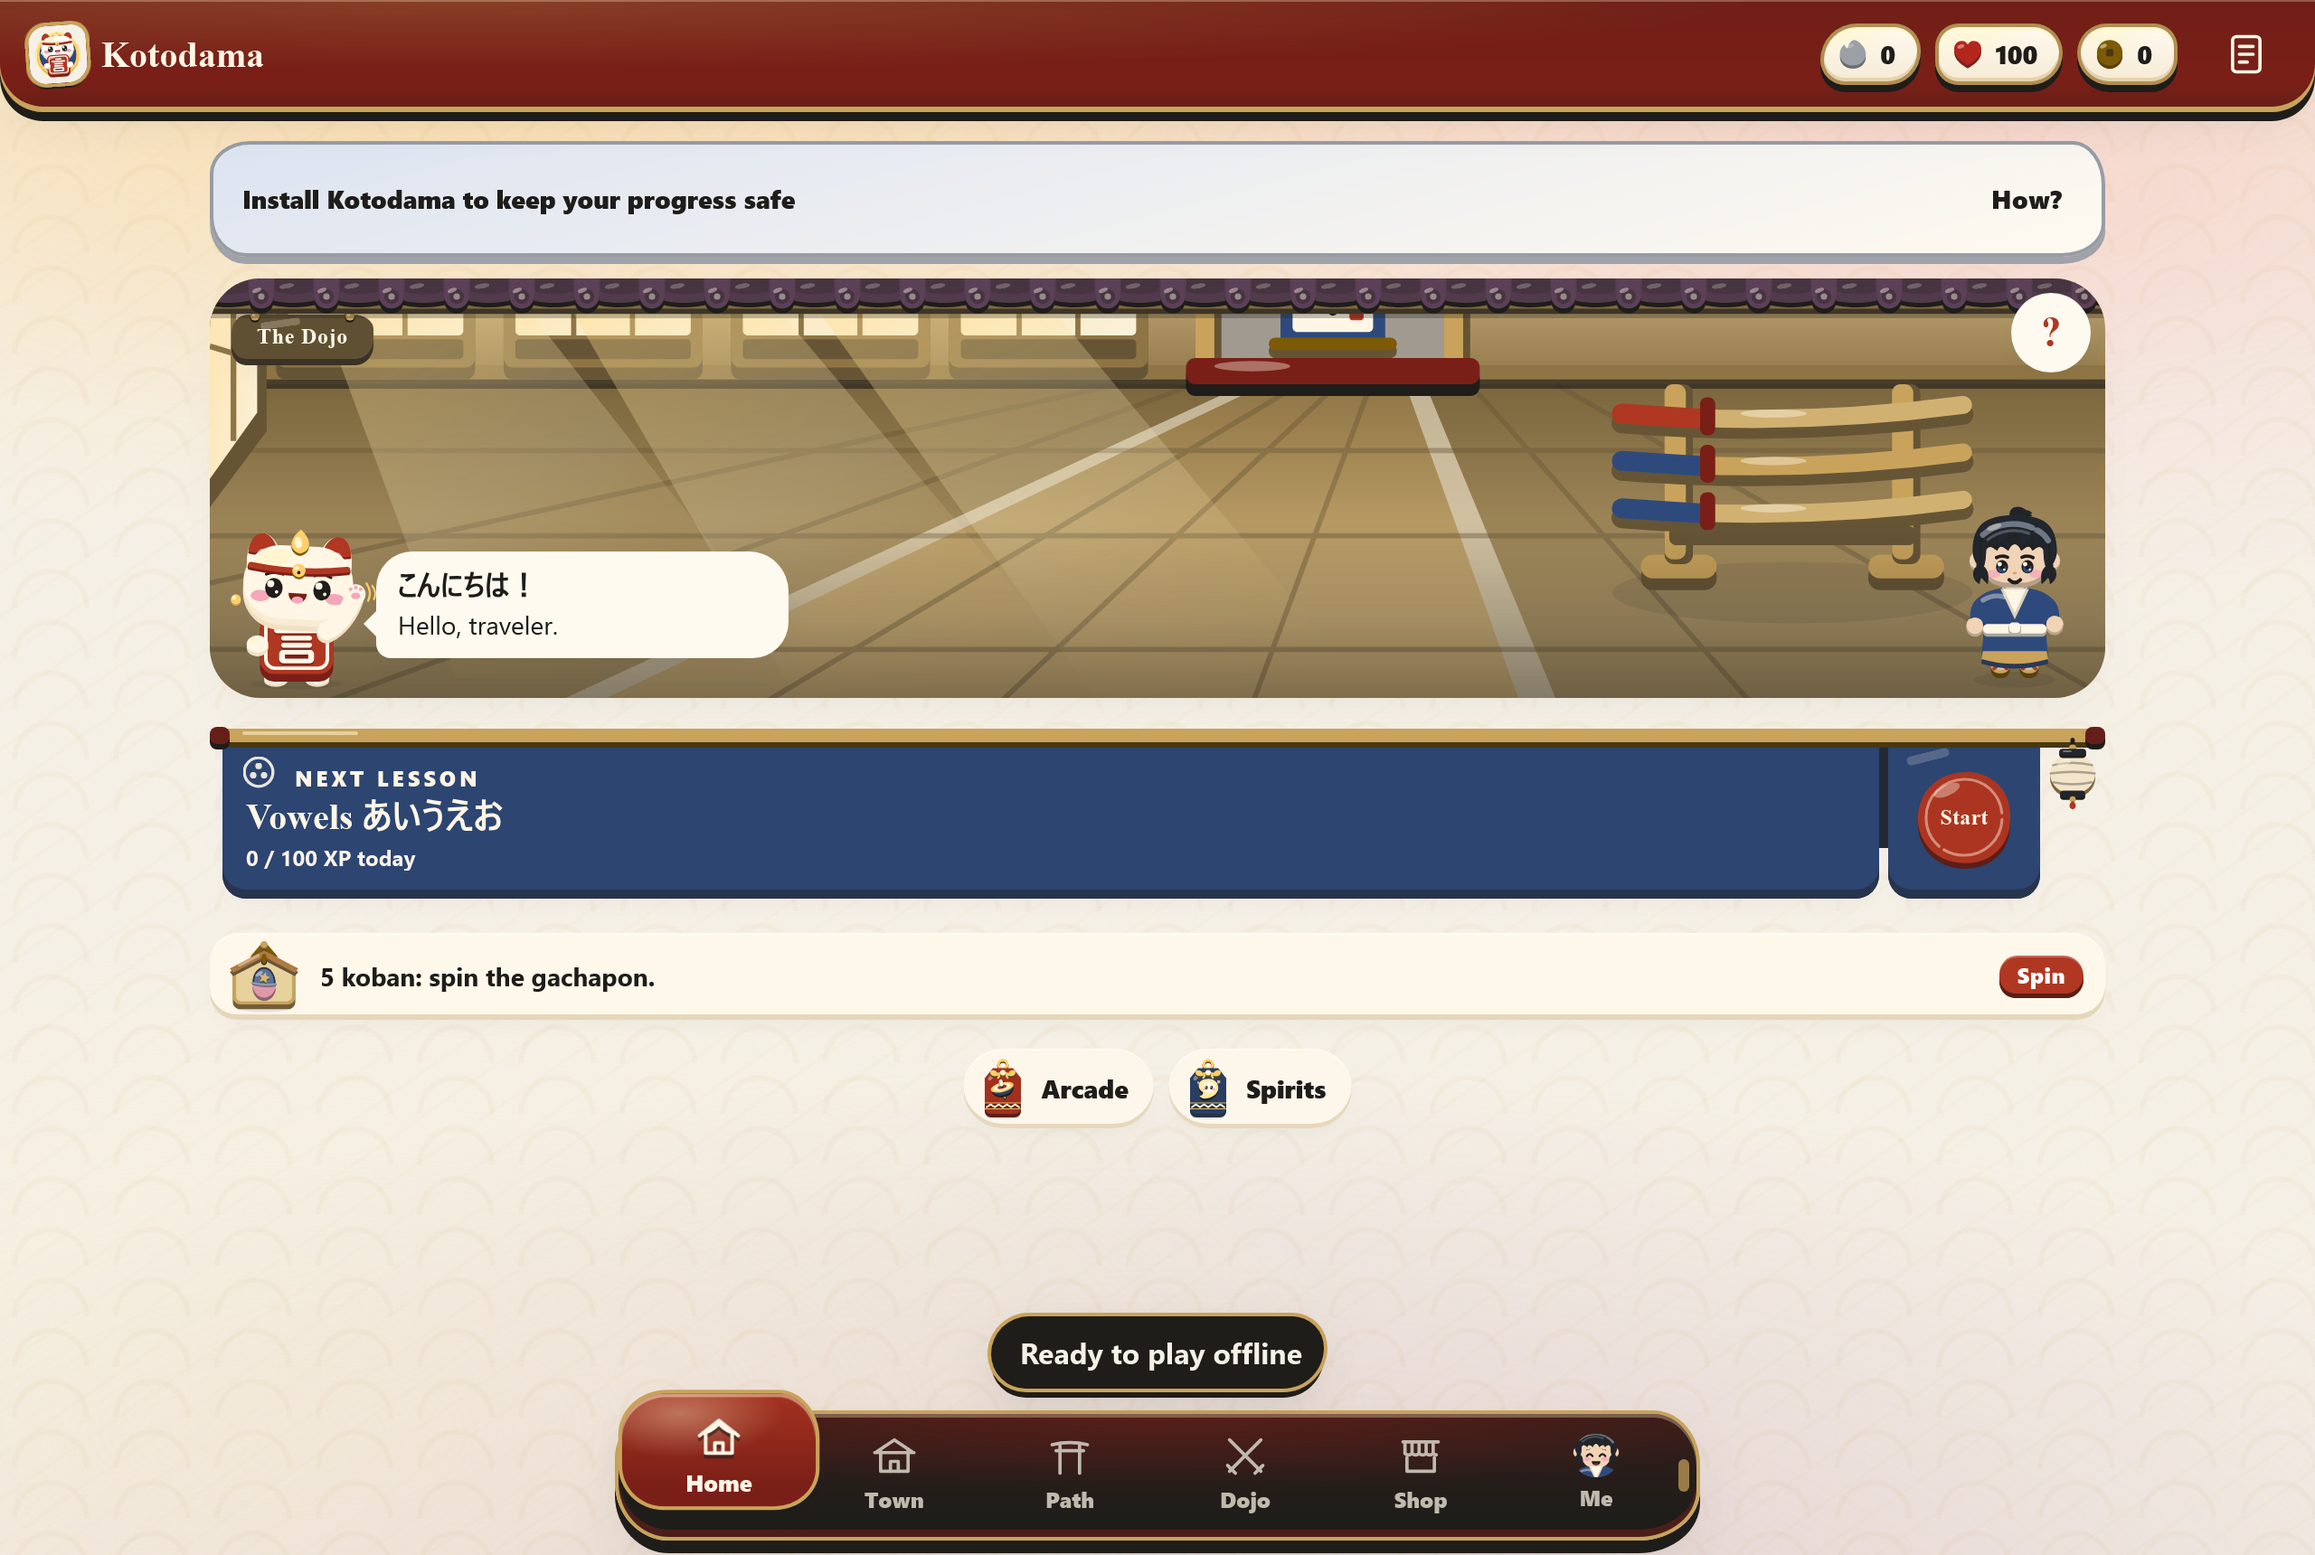
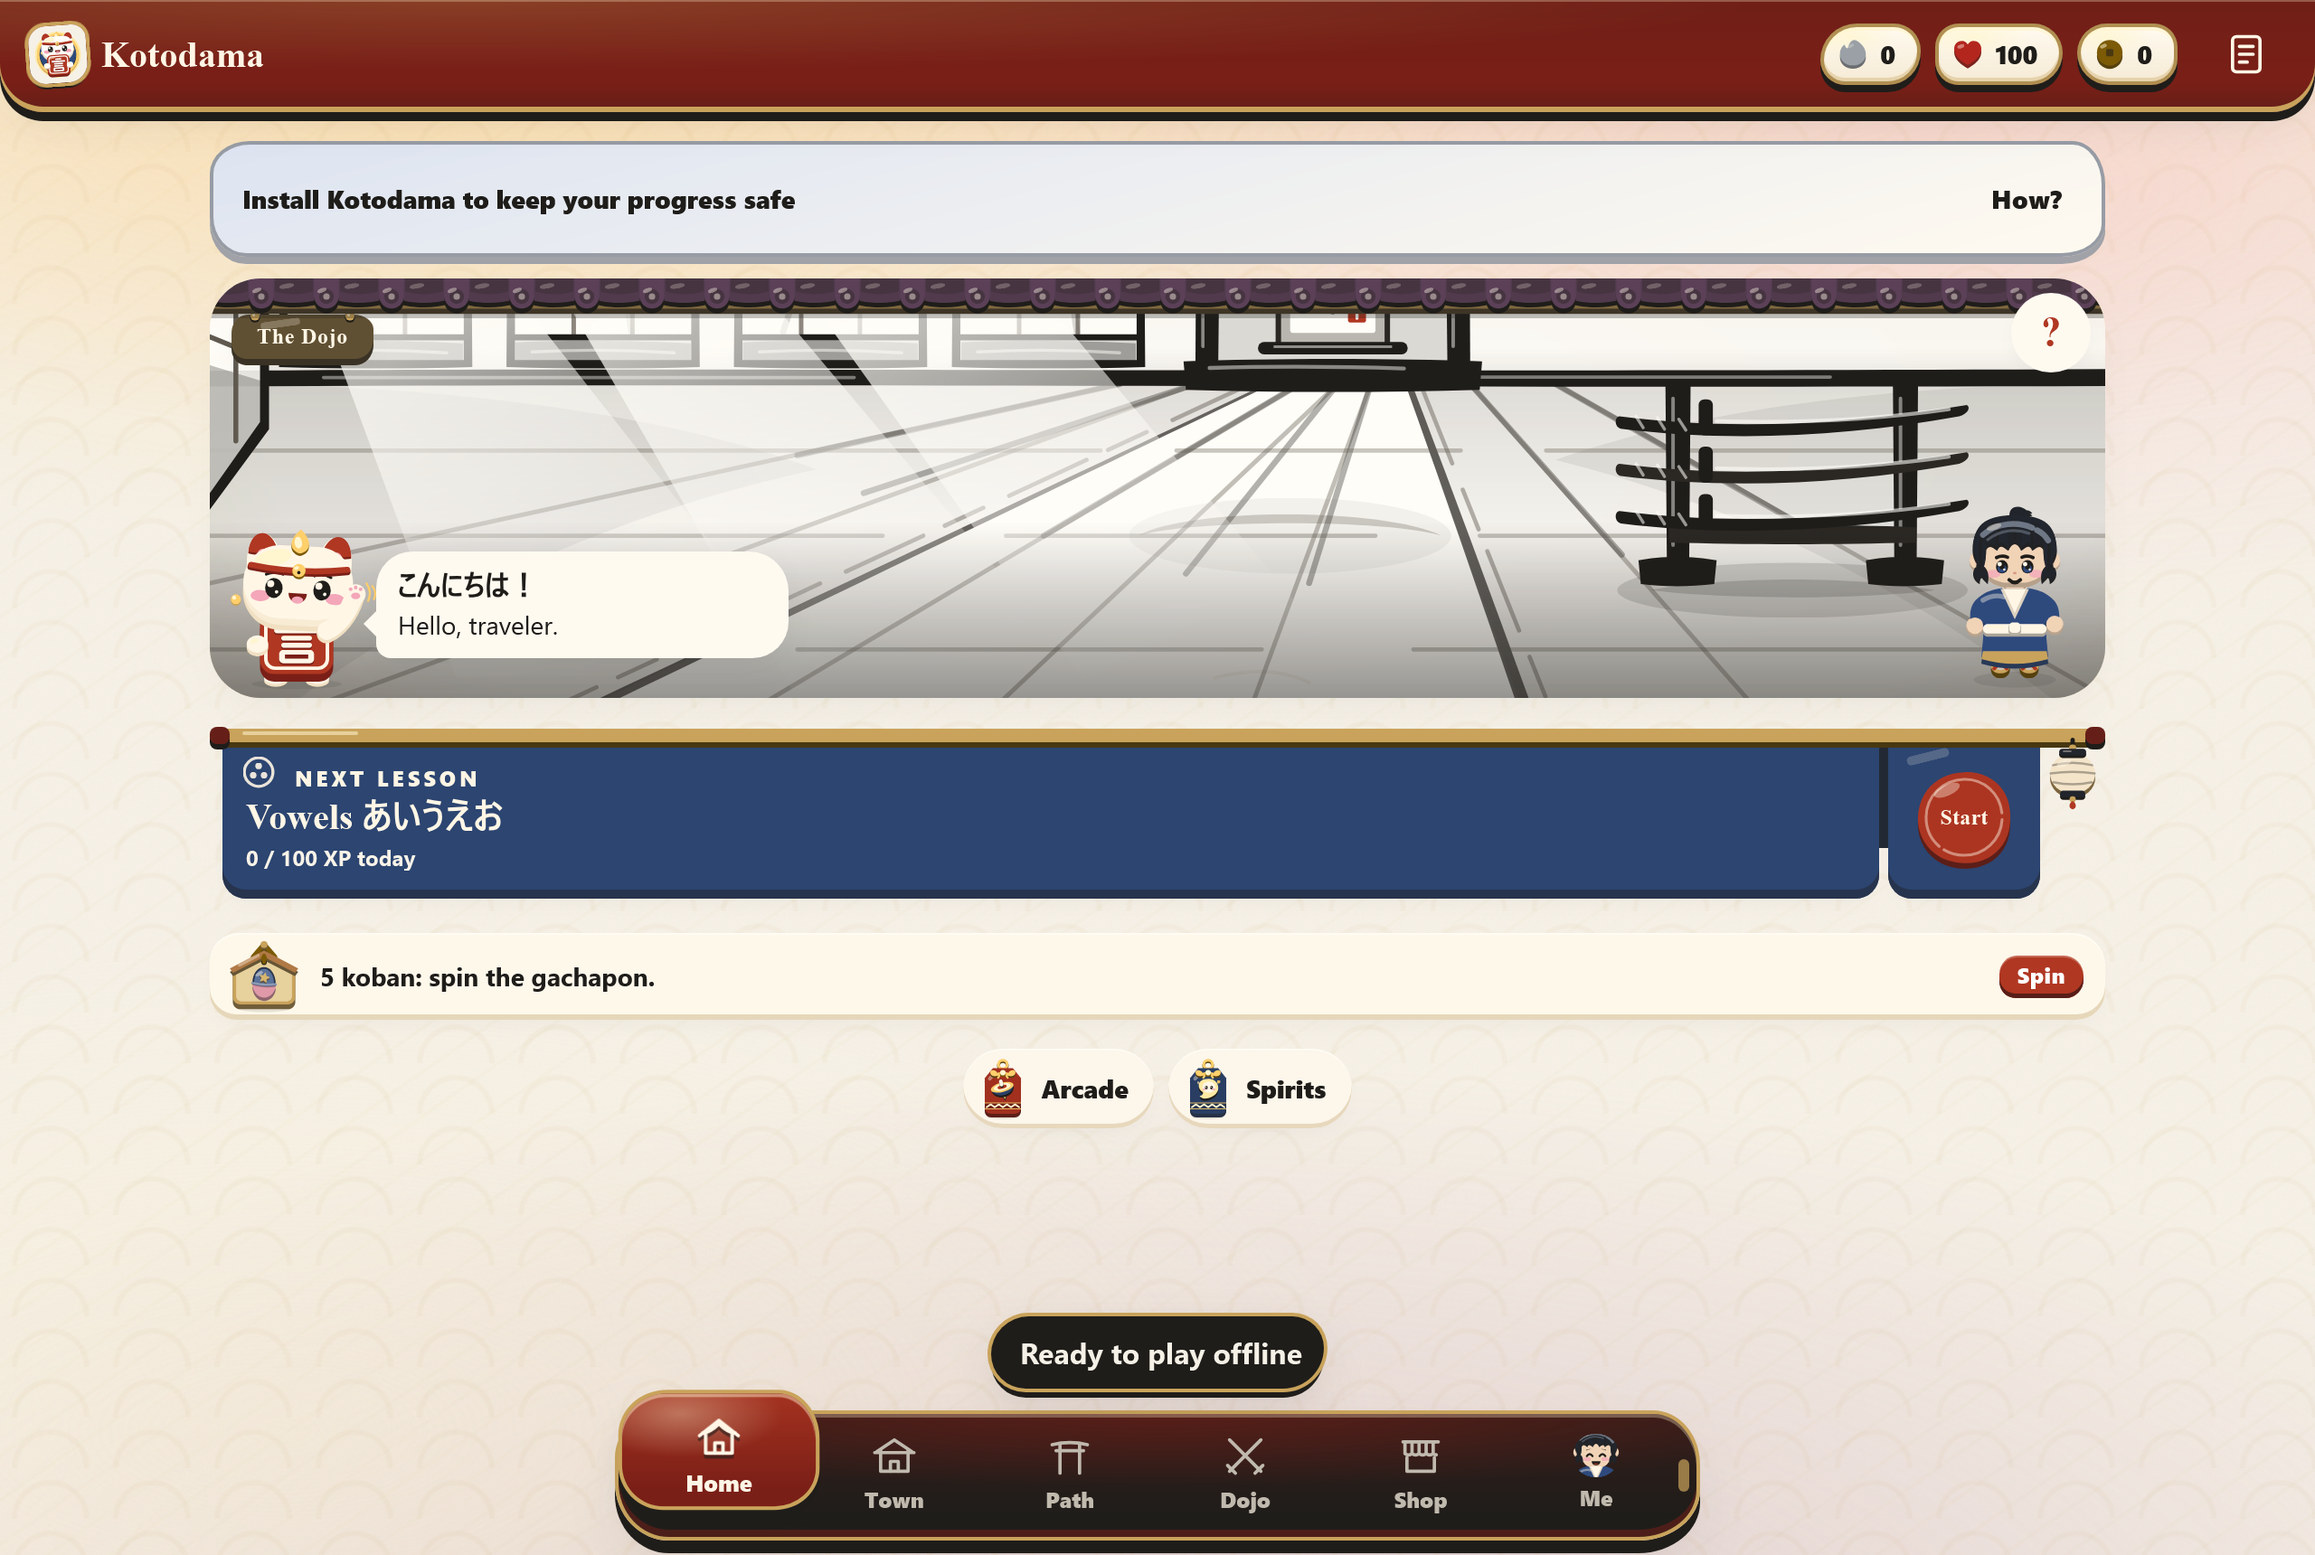
style: format the new backdrops

Changed region(s): [[0.0938, 0.1849, 0.9062, 0.4622]]

diff --git a/src/features/lesson/backdrops/DojoHall.tsx b/src/features/lesson/backdrops/DojoHall.tsx
@@ -117,11 +117,7 @@ export function DojoHallBackdrop({ className }: { className?: string }) {
       />
 
       {/* Central training lane: left in luminous open washi paper so characters pop */}
-      <path
-        d="M222.8 56 L12.8 156 L288.3 156 L252.3 56 Z"
-        fill={PAPER_BASE}
-        opacity="0.52"
-      />
+      <path d="M222.8 56 L12.8 156 L288.3 156 L252.3 56 Z" fill={PAPER_BASE} opacity="0.52" />
       {/* Faint sumi wash ring on the upper-mid lane where the opponent stands (228, 88) */}
       <ellipse cx="228" cy="88" rx="34" ry="8" fill={SUMI_DEEP} opacity="0.055" />
       <path
@@ -263,27 +259,17 @@ export function DojoHallBackdrop({ className }: { className?: string }) {
           strokeWidth="1.05"
           strokeLinecap="round"
         />
-        <path
-          d="M0 13.5 L12.5 24 V65.5 L0 82.5 L0 79 L10.6 64 V25 L0 16.5 Z"
-          fill={SUMI_DEEP}
-        />
+        <path d="M0 13.5 L12.5 24 V65.5 L0 82.5 L0 79 L10.6 64 V25 L0 16.5 Z" fill={SUMI_DEEP} />
       </g>
 
       {/* Kamiza alcove with hanging scroll at the back wall (head of the training lane) */}
       <g transform="translate(206 14)">
         {/* Recessed alcove wash (tanboku nijimi) */}
         <rect x="4.5" y="3.5" width="53" height="36" rx="1.5" fill={SUMI_WASH} />
-        <path
-          d="M5 4 H57 V16 C42 12 20 12 5 17 Z"
-          fill={SUMI_DEEP}
-          opacity="0.12"
-        />
+        <path d="M5 4 H57 V16 C42 12 20 12 5 17 Z" fill={SUMI_DEEP} opacity="0.12" />
 
         {/* Strong vertical sumi pillar brush strokes on either side of the kamiza */}
-        <path
-          d="M2.2 2.5 C4.2 2 5.8 2 7.2 2.8 L6.8 39.5 C5 40 3.4 40 2 39.2 Z"
-          fill={SUMI_DEEP}
-        />
+        <path d="M2.2 2.5 C4.2 2 5.8 2 7.2 2.8 L6.8 39.5 C5 40 3.4 40 2 39.2 Z" fill={SUMI_DEEP} />
         <path
           d="M3.6 5.5 V34"
           stroke={PAPER_BASE}
@@ -304,10 +290,7 @@ export function DojoHallBackdrop({ className }: { className?: string }) {
         />
 
         {/* Curved overhanging kamiza lintel beam brushed in one sweeping stroke */}
-        <path
-          d="M-2.5 2.4 Q31 -2.4 64.5 2.4 L62.5 6.8 Q31 2.8 -0.5 6.8 Z"
-          fill={SUMI_DEEP}
-        />
+        <path d="M-2.5 2.4 Q31 -2.4 64.5 2.4 L62.5 6.8 Q31 2.8 -0.5 6.8 Z" fill={SUMI_DEEP} />
         <path
           d="M6 3.6 Q31 0.8 56 3.6"
           stroke={PAPER_BASE}
@@ -323,15 +306,7 @@ export function DojoHallBackdrop({ className }: { className?: string }) {
         {/* Hanging scroll (kakejiku) in sumi mounting & warm washi reserve */}
         <path d="M31 5.8 L25 8.2 M31 5.8 L37 8.2" stroke={SUMI_MID} strokeWidth="0.85" />
         {/* Silk brocade mounting in medium grey sumi wash */}
-        <rect
-          x="19.5"
-          y="8"
-          width="23"
-          height="26.5"
-          rx="1"
-          fill={SUMI_MID}
-          opacity="0.28"
-        />
+        <rect x="19.5" y="8" width="23" height="26.5" rx="1" fill={SUMI_MID} opacity="0.28" />
         <rect
           x="19.5"
           y="8"
@@ -420,14 +395,8 @@ export function DojoHallBackdrop({ className }: { className?: string }) {
             d="M53.5 41.2 C58 40.2 65 40.2 70 41.2 L69.5 46.2 C64.5 46.8 58.5 46.8 54 46.2 Z"
             fill={SUMI_DEEP}
           />
-          <path
-            d="M11.2 4 C13 3.4 14.8 3.4 16.5 4 L16.2 42.5 H11.5 Z"
-            fill={SUMI_DEEP}
-          />
-          <path
-            d="M59.2 4 C61 3.4 62.8 3.4 64.5 4 L64.2 42.5 H59.5 Z"
-            fill={SUMI_DEEP}
-          />
+          <path d="M11.2 4 C13 3.4 14.8 3.4 16.5 4 L16.2 42.5 H11.5 Z" fill={SUMI_DEEP} />
+          <path d="M59.2 4 C61 3.4 62.8 3.4 64.5 4 L64.2 42.5 H59.5 Z" fill={SUMI_DEEP} />
           {/* Dry-brush flying white highlight on rack uprights & lower tie bar */}
           <path
             d="M12.8 7 V38 M60.8 7 V38"
@@ -500,12 +469,7 @@ export function DojoHallBackdrop({ className }: { className?: string }) {
           {/* Soft pale wash halo around the lantern */}
           <circle cx={x} cy="22.5" r="16" fill="url(#dojo-lantern-wash)" />
           {/* Hanging cord stroke */}
-          <path
-            d={`M${x} 8.5 V14.2`}
-            stroke={SUMI_DEEP}
-            strokeWidth="1.5"
-            strokeLinecap="round"
-          />
+          <path d={`M${x} 8.5 V14.2`} stroke={SUMI_DEEP} strokeWidth="1.5" strokeLinecap="round" />
           {/* Washi paper lantern body with subtle side ink shading */}
           <ellipse cx={x} cy="22.2" rx="8.2" ry="7.4" fill={PAPER_BASE} />
           <path

diff --git a/src/features/lesson/backdrops/MarketStreet.tsx b/src/features/lesson/backdrops/MarketStreet.tsx
@@ -36,10 +36,22 @@ export function MarketStreetBackdrop({ className }: { className?: string }) {
       <defs>
         {/* Hand-wiped ichimonji bokashi dusk sky (the only gradient in the woodblock print) */}
         <linearGradient id="market-bokashi-sky" x1="0" y1="0" x2="0" y2="1">
-          <stop offset="0%" stopColor="color-mix(in srgb, var(--c-secondary) 74%, var(--c-sky-top))" />
-          <stop offset="34%" stopColor="color-mix(in srgb, var(--c-secondary) 46%, var(--c-sky-mid))" />
-          <stop offset="68%" stopColor="color-mix(in srgb, var(--c-sky-mid) 74%, var(--c-sky-bottom))" />
-          <stop offset="100%" stopColor="color-mix(in srgb, var(--c-accent) 36%, var(--c-sky-bottom))" />
+          <stop
+            offset="0%"
+            stopColor="color-mix(in srgb, var(--c-secondary) 74%, var(--c-sky-top))"
+          />
+          <stop
+            offset="34%"
+            stopColor="color-mix(in srgb, var(--c-secondary) 46%, var(--c-sky-mid))"
+          />
+          <stop
+            offset="68%"
+            stopColor="color-mix(in srgb, var(--c-sky-mid) 74%, var(--c-sky-bottom))"
+          />
+          <stop
+            offset="100%"
+            stopColor="color-mix(in srgb, var(--c-accent) 36%, var(--c-sky-bottom))"
+          />
         </linearGradient>
       </defs>
 
@@ -236,14 +248,7 @@ export function MarketStreetBackdrop({ className }: { className?: string }) {
             stroke="var(--c-panel-edge)"
             strokeWidth="1.5"
           />
-          <circle
-            cx="11"
-            cy="11"
-            r="4"
-            fill="var(--c-accent)"
-            stroke={SUMI}
-            strokeWidth="1.2"
-          />
+          <circle cx="11" cy="11" r="4" fill="var(--c-accent)" stroke={SUMI} strokeWidth="1.2" />
         </g>
 
         {/* Sake shop's sugidama (cedar ball) hanging under the machiya eaves */}
@@ -346,14 +351,7 @@ export function MarketStreetBackdrop({ className }: { className?: string }) {
               stroke={SUMI}
               strokeWidth="1.2"
             />
-            <circle
-              cx="6.5"
-              cy="4.8"
-              r="2.3"
-              stroke={WASHI}
-              strokeWidth="1.2"
-              fill="none"
-            />
+            <circle cx="6.5" cy="4.8" r="2.3" stroke={WASHI} strokeWidth="1.2" fill="none" />
           </g>
         ))}
         {/* Shingled yatai roof with +3 shade lip, carved shingle lines & top-left highlight */}
@@ -596,22 +594,8 @@ export function MarketStreetBackdrop({ className }: { className?: string }) {
             strokeWidth="1"
             fill="none"
           />
-          <rect
-            x="-3.6"
-            y="0.4"
-            width="7.2"
-            height="2.2"
-            rx="0.8"
-            fill={SUMI}
-          />
-          <rect
-            x="-3.6"
-            y="14"
-            width="7.2"
-            height="2.2"
-            rx="0.8"
-            fill={SUMI}
-          />
+          <rect x="-3.6" y="0.4" width="7.2" height="2.2" rx="0.8" fill={SUMI} />
+          <rect x="-3.6" y="14" width="7.2" height="2.2" rx="0.8" fill={SUMI} />
           <ellipse
             cx="-2.2"
             cy="5.4"
@@ -637,15 +621,7 @@ export function MarketStreetBackdrop({ className }: { className?: string }) {
           strokeWidth="1.4"
         />
         <rect x="0.7" y="0.7" width="14.6" height="6" fill="var(--c-lacquer)" />
-        <rect
-          x="2"
-          y="2"
-          width="12"
-          height="22"
-          fill="none"
-          stroke={WASHI}
-          strokeWidth="0.8"
-        />
+        <rect x="2" y="2" width="12" height="22" fill="none" stroke={WASHI} strokeWidth="0.8" />
         {/* Carved vector strokes for 市 (market) */}
         <path
           d="M8 5.2 V7.4 M4.2 7.8 H11.8 M5.2 11.2 V16.8 M5.2 11.2 H10.8 V16.2 Q10.8 17 9.6 16.4 M8 8 V20.5"
